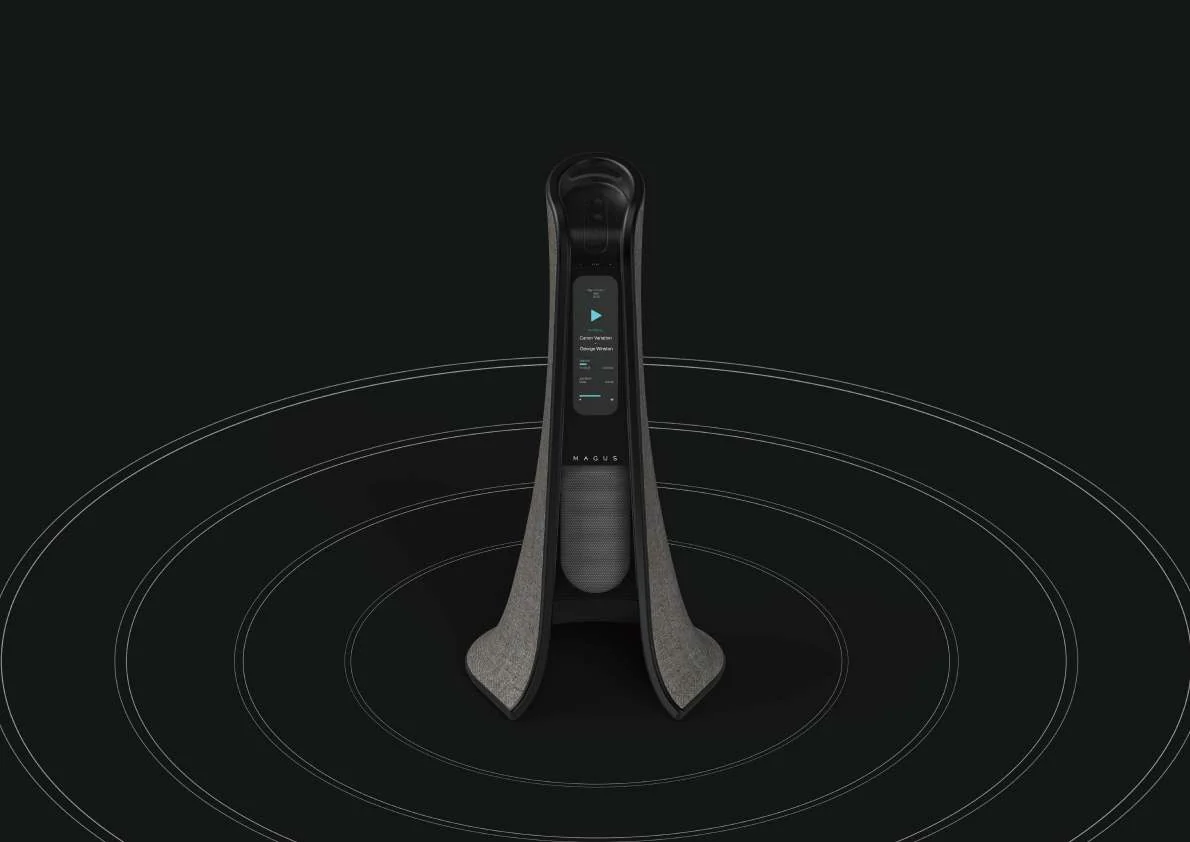
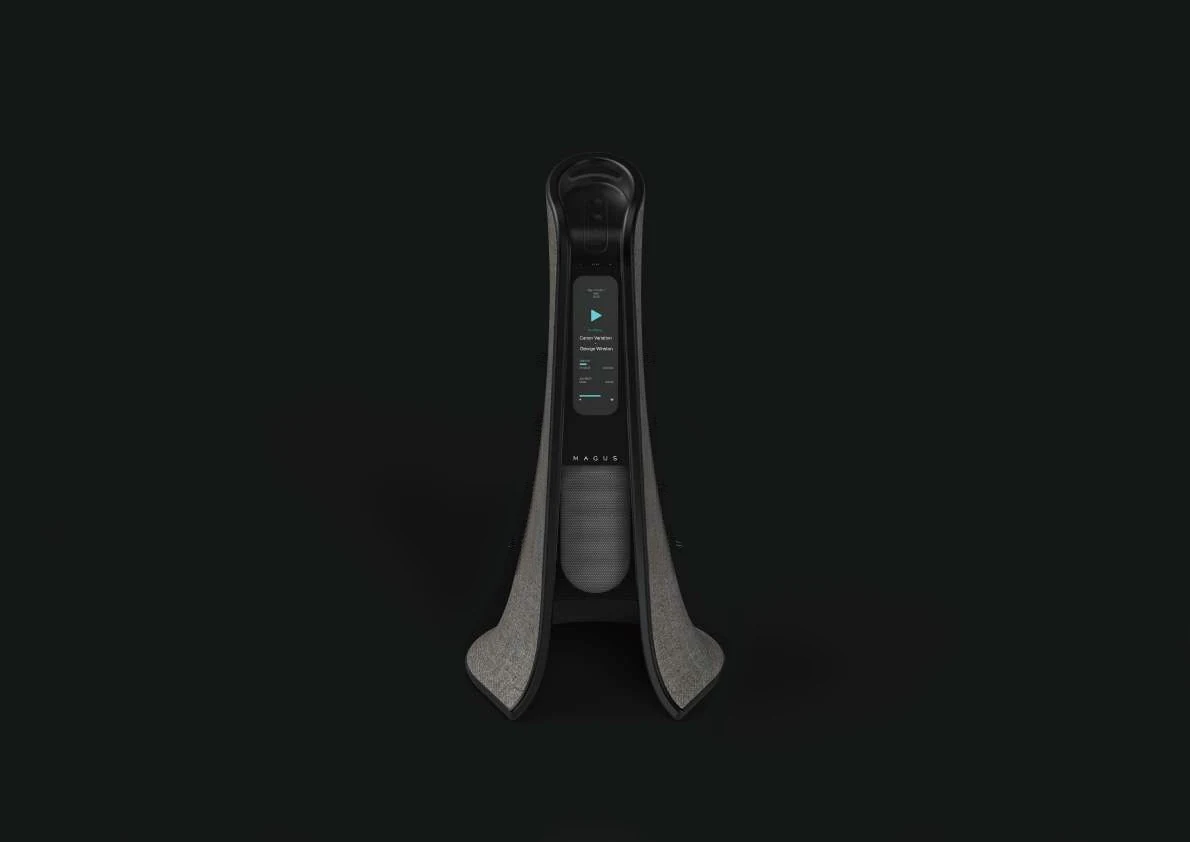
Remove white ring lines from MAGUS sound render
Claude-Session: https://claude.ai/code/session_01BFCG5mZW9hgWuvcjPHNUrC

diff --git a/index.html b/index.html
@@ -2118,7 +2118,7 @@ footer .c{padding-block:56px calc(40px + env(safe-area-inset-bottom,0px));displa
         <div class="pn-cap"><span class="pn-no">03 — Sound Movement</span><h3 class="pn-h">Fills the room,<br><em>every direction.</em></h3></div>
         <div class="pn-txt"><p>바닥에 가까운 우퍼와 넓게 벌어진 하단 구조로, 소리가 한쪽이 아니라 공간 전체로 둥글게 퍼지도록 설계했어요.</p></div>
       </div>
-      <figure class="mg-sound"><div class="mg-sstage"><button class="pn-ph " type="button" data-lb="99" data-cursor="1" aria-label="360° 사운드 확산 크게 보기"><img src="assets/magus/sound.webp" alt="MAGUS — 360° 사운드 확산" loading="lazy" decoding="async"></button><span class="mg-ring" aria-hidden="true"></span><span class="mg-ring" aria-hidden="true" style="animation-delay:1.3s"></span><span class="mg-ring" aria-hidden="true" style="animation-delay:2.6s"></span></div></figure>
+      <figure class="mg-sound"><div class="mg-sstage"><button class="pn-ph " type="button" data-lb="99" data-cursor="1" aria-label="360° 사운드 확산 크게 보기"><img src="assets/magus/sound.webp?v=2" alt="MAGUS — 360° 사운드 확산" loading="lazy" decoding="async"></button><span class="mg-ring" aria-hidden="true"></span><span class="mg-ring" aria-hidden="true" style="animation-delay:1.3s"></span><span class="mg-ring" aria-hidden="true" style="animation-delay:2.6s"></span></div></figure>
 
       <div class="pn-sec">
         <div class="pn-cap"><span class="pn-no">04 — Details</span><h3 class="pn-h">Made to be<br><em>touched.</em></h3></div>
@@ -2702,7 +2702,7 @@ document.querySelectorAll('#lf-tabs button').forEach(b=>b.addEventListener('clic
 })();
 
 /* ---------- 3D 작품 라이트박스 ---------- */
-const LB=[{"src": "assets/3d/convexity-1.webp", "alt": "석고 조형 Organic Convexity — 세로 구도", "cap": "Organic Convexity — 3D Plaster Sculpture", "g": "u"}, {"src": "assets/3d/convexity-2.webp", "alt": "석고 조형 Organic Convexity — 측면", "cap": "Organic Convexity — 3D Plaster Sculpture", "g": "u"}, {"src": "assets/3d/convexity-3.webp", "alt": "석고 조형 Organic Convexity — 위에서 본 모습", "cap": "Organic Convexity — 3D Plaster Sculpture", "g": "u"}, {"src": "assets/3d/fluidity-1.webp", "alt": "종이 조형 Organic Fluidity — 바닥에 놓인 형태", "cap": "Organic Fluidity — 3D Paper Sculpture", "g": "u"}, {"src": "assets/3d/fluidity-2.webp", "alt": "종이 조형 Organic Fluidity — 매달린 형태", "cap": "Organic Fluidity — 3D Paper Sculpture", "g": "u"}, {"src": "assets/3d/space-box.webp", "alt": "공간 분석 박스 — 상자 안에 매달린 색 면들", "cap": "Space Analysis Box — Spatial Study", "g": "u"}, {"src": "assets/3d/elements.webp", "alt": "3D 요소 연구 — 받침 위의 곡면과 선, 나무 형태", "cap": "3D Elements Studies — Space · Direction · Priority · Movement", "g": "u"}, {"src": "assets/3d/edged-1.webp", "alt": "석고 조형 Aesthetic Edged Surface — 정면", "cap": "Aesthetic Edged Surface — 3D Plaster Sculpture", "g": "u"}, {"src": "assets/3d/edged-2.webp", "alt": "석고 조형 Aesthetic Edged Surface — 근접", "cap": "Aesthetic Edged Surface — 3D Plaster Sculpture", "g": "u"}, {"src": "assets/3d/edged-3.webp", "alt": "석고 조형 Aesthetic Edged Surface — 측면", "cap": "Aesthetic Edged Surface — 3D Plaster Sculpture", "g": "u"}, {"src": "assets/intern/ottawa-wall.webp", "alt": "BoConcept Ottawa 사이드 테이블 — 벽 선반과 함께 연출된 공간", "cap": "Ottawa Side Table — BoConcept · Photography © BoConcept", "g": "i"}, {"src": "assets/intern/ottawa-lounge-1.webp", "alt": "Ottawa 사이드 테이블 — 소파 옆에 놓인 모습", "cap": "Ottawa Side Table — BoConcept · Photography © BoConcept", "g": "i"}, {"src": "assets/intern/ottawa-lounge-2.webp", "alt": "Ottawa 사이드 테이블 — 소파 좌석 아래로 밀어 넣은 모습", "cap": "Ottawa Side Table — BoConcept · Photography © BoConcept", "g": "i"}, {"src": "assets/intern/toot-interior.webp", "alt": "Kundalini TOOT 테이블 램프 — 인테리어 연출", "cap": "TOOT Table Lamp — Kundalini, 2017 · Photography © Kundalini", "g": "i"}, {"src": "assets/intern/toot-product.webp", "alt": "Kundalini TOOT 테이블 램프 — 제품 단독 컷", "cap": "TOOT Table Lamp — Kundalini, 2017 · Photography © Kundalini", "g": "i"}, {"src": "assets/linkfit/app/01.webp", "alt": "링크핏 앱 화면 — 01 스플래시", "cap": "LinkFit App — A 진입 · 01 스플래시", "g": "l"}, {"src": "assets/linkfit/app/02.webp", "alt": "링크핏 앱 화면 — 02 로그인", "cap": "LinkFit App — A 진입 · 02 로그인", "g": "l"}, {"src": "assets/linkfit/app/03.webp", "alt": "링크핏 앱 화면 — 03 로그인 진행 중", "cap": "LinkFit App — A 진입 · 03 로그인 진행 중", "g": "l"}, {"src": "assets/linkfit/app/04.webp", "alt": "링크핏 앱 화면 — 04 홈", "cap": "LinkFit App — B 탐색 · 04 홈", "g": "l"}, {"src": "assets/linkfit/app/05.webp", "alt": "링크핏 앱 화면 — 05 알림", "cap": "LinkFit App — B 탐색 · 05 알림", "g": "l"}, {"src": "assets/linkfit/app/06.webp", "alt": "링크핏 앱 화면 — 06 검색", "cap": "LinkFit App — B 탐색 · 06 검색", "g": "l"}, {"src": "assets/linkfit/app/07.webp", "alt": "링크핏 앱 화면 — 07 검색 결과", "cap": "LinkFit App — B 탐색 · 07 검색 결과", "g": "l"}, {"src": "assets/linkfit/app/08.webp", "alt": "링크핏 앱 화면 — 08 검색 필터", "cap": "LinkFit App — B 탐색 · 08 검색 필터", "g": "l"}, {"src": "assets/linkfit/app/09.webp", "alt": "링크핏 앱 화면 — 09 내 주변 지도", "cap": "LinkFit App — B 탐색 · 09 내 주변 지도", "g": "l"}, {"src": "assets/linkfit/app/10.webp", "alt": "링크핏 앱 화면 — 10 내 주변 필터 시트", "cap": "LinkFit App — B 탐색 · 10 내 주변 필터 시트", "g": "l"}, {"src": "assets/linkfit/app/11.webp", "alt": "링크핏 앱 화면 — 11 시설 상세", "cap": "LinkFit App — C 예약 · 결제 · 11 시설 상세", "g": "l"}, {"src": "assets/linkfit/app/12.webp", "alt": "링크핏 앱 화면 — 12 시설 상세 · 이용권 · 후기", "cap": "LinkFit App — C 예약 · 결제 · 12 시설 상세 · 이용권 · 후기", "g": "l"}, {"src": "assets/linkfit/app/13.webp", "alt": "링크핏 앱 화면 — 13 이용시간 선택", "cap": "LinkFit App — C 예약 · 결제 · 13 이용시간 선택", "g": "l"}, {"src": "assets/linkfit/app/14.webp", "alt": "링크핏 앱 화면 — 14 결제하기", "cap": "LinkFit App — C 예약 · 결제 · 14 결제하기", "g": "l"}, {"src": "assets/linkfit/app/15.webp", "alt": "링크핏 앱 화면 — 15 중복 시간 알림", "cap": "LinkFit App — C 예약 · 결제 · 15 중복 시간 알림", "g": "l"}, {"src": "assets/linkfit/app/16.webp", "alt": "링크핏 앱 화면 — 15B 결제 확정 대기", "cap": "LinkFit App — C 예약 · 결제 · 15B 결제 확정 대기", "g": "l"}, {"src": "assets/linkfit/app/17.webp", "alt": "링크핏 앱 화면 — 16 결제 완료", "cap": "LinkFit App — C 예약 · 결제 · 16 결제 완료", "g": "l"}, {"src": "assets/linkfit/app/18.webp", "alt": "링크핏 앱 화면 — 17 이용현황", "cap": "LinkFit App — D 이용 · 17 이용현황", "g": "l"}, {"src": "assets/linkfit/app/19.webp", "alt": "링크핏 앱 화면 — 18 이용권 상세", "cap": "LinkFit App — D 이용 · 18 이용권 상세", "g": "l"}, {"src": "assets/linkfit/app/20.webp", "alt": "링크핏 앱 화면 — 19 QR 입장", "cap": "LinkFit App — D 이용 · 19 QR 입장", "g": "l"}, {"src": "assets/linkfit/app/21.webp", "alt": "링크핏 앱 화면 — 20 이용 중", "cap": "LinkFit App — D 이용 · 20 이용 중", "g": "l"}, {"src": "assets/linkfit/app/22.webp", "alt": "링크핏 앱 화면 — 21 이용 시간 연장", "cap": "LinkFit App — D 이용 · 21 이용 시간 연장", "g": "l"}, {"src": "assets/linkfit/app/23.webp", "alt": "링크핏 앱 화면 — 22 이용 완료 · 후기", "cap": "LinkFit App — D 이용 · 22 이용 완료 · 후기", "g": "l"}, {"src": "assets/linkfit/app/24.webp", "alt": "링크핏 앱 화면 — 23 선물 보내기", "cap": "LinkFit App — E 선물 · 23 선물 보내기", "g": "l"}, {"src": "assets/linkfit/app/25.webp", "alt": "링크핏 앱 화면 — 24 선물 링크 완료", "cap": "LinkFit App — E 선물 · 24 선물 링크 완료", "g": "l"}, {"src": "assets/linkfit/app/26.webp", "alt": "링크핏 앱 화면 — 25 보낸 선물", "cap": "LinkFit App — E 선물 · 25 보낸 선물", "g": "l"}, {"src": "assets/linkfit/app/27.webp", "alt": "링크핏 앱 화면 — 26 선물 받기", "cap": "LinkFit App — E 선물 · 26 선물 받기", "g": "l"}, {"src": "assets/linkfit/app/28.webp", "alt": "링크핏 앱 화면 — 27 예약 취소 확인", "cap": "LinkFit App — F 취소 · 환불 · 27 예약 취소 확인", "g": "l"}, {"src": "assets/linkfit/app/29.webp", "alt": "링크핏 앱 화면 — 28 구매내역 상세", "cap": "LinkFit App — F 취소 · 환불 · 28 구매내역 상세", "g": "l"}, {"src": "assets/linkfit/app/30.webp", "alt": "링크핏 앱 화면 — 29 MY", "cap": "LinkFit App — G MY · 29 MY", "g": "l"}, {"src": "assets/linkfit/app/31.webp", "alt": "링크핏 앱 화면 — 30 헬스레벨 안내", "cap": "LinkFit App — G MY · 30 헬스레벨 안내", "g": "l"}, {"src": "assets/linkfit/app/32.webp", "alt": "링크핏 앱 화면 — 31 레벨 공유", "cap": "LinkFit App — G MY · 31 레벨 공유", "g": "l"}, {"src": "assets/linkfit/app/33.webp", "alt": "링크핏 앱 화면 — 32 이용권 구매내역", "cap": "LinkFit App — G MY · 32 이용권 구매내역", "g": "l"}, {"src": "assets/linkfit/app/34.webp", "alt": "링크핏 앱 화면 — 33 고객센터 · FAQ", "cap": "LinkFit App — G MY · 33 고객센터 · FAQ", "g": "l"}, {"src": "assets/linkfit/app/35.webp", "alt": "링크핏 앱 화면 — 34 내 문의내역", "cap": "LinkFit App — G MY · 34 내 문의내역", "g": "l"}, {"src": "assets/linkfit/app/36.webp", "alt": "링크핏 앱 화면 — 35 설정", "cap": "LinkFit App — G MY · 35 설정", "g": "l"}, {"src": "assets/linkfit/web/s-hero.webp", "alt": "링크핏 웹사이트 — Hero — 시간표를 드래그해 원하는 시간을 담는 첫 화면", "cap": "LinkFit Website — Hero — 시간표를 드래그해 원하는 시간을 담는 첫 화면", "g": "w"}, {"src": "assets/linkfit/web/s-why.webp", "alt": "링크핏 웹사이트 — Why LinkFit — 4가지 혜택 카드와 키워드 띠", "cap": "LinkFit Website — Why LinkFit — 4가지 혜택 카드와 키워드 띠", "g": "w"}, {"src": "assets/linkfit/web/s-how.webp", "alt": "링크핏 웹사이트 — How it works — 3단계 안내와 앱 화면", "cap": "LinkFit Website — How it works — 3단계 안내와 앱 화면", "g": "w"}, {"src": "assets/linkfit/web/s-together.webp", "alt": "링크핏 웹사이트 — Together — 함께 결제하고 함께 입장", "cap": "LinkFit Website — Together — 함께 결제하고 함께 입장", "g": "w"}, {"src": "assets/linkfit/web/s-faq.webp", "alt": "링크핏 웹사이트 — FAQ — 자주 묻는 질문 아코디언", "cap": "LinkFit Website — FAQ — 자주 묻는 질문 아코디언", "g": "w"}, {"src": "assets/linkfit/web/m-hero.webp", "alt": "링크핏 웹사이트 — Mobile — Hero", "cap": "LinkFit Website — Mobile — Hero", "g": "w"}, {"src": "assets/linkfit/web/m-why.webp", "alt": "링크핏 웹사이트 — Mobile — Why LinkFit", "cap": "LinkFit Website — Mobile — Why LinkFit", "g": "w"}, {"src": "assets/linkfit/web/m-how.webp", "alt": "링크핏 웹사이트 — Mobile — How it works", "cap": "LinkFit Website — Mobile — How it works", "g": "w"}, {"src": "assets/windmate/phone.webp", "alt": "Windmate 미니 선풍기 — With Phone — 스마트폰과 결합한 모습", "cap": "Windmate — With Phone — 스마트폰과 결합한 모습", "g": "m"}, {"src": "assets/windmate/back.webp", "alt": "Windmate 미니 선풍기 — Back — 손잡이가 스마트폰을 감싸는 뒷면", "cap": "Windmate — Back — 손잡이가 스마트폰을 감싸는 뒷면", "g": "m"}, {"src": "assets/windmate/fan.webp", "alt": "Windmate 미니 선풍기 — Fan Mode — 커버를 열면 선풍기", "cap": "Windmate — Fan Mode — 커버를 열면 선풍기", "g": "m"}, {"src": "assets/windmate/cover.webp", "alt": "Windmate 미니 선풍기 — Dryer Mode — 커버를 씌우면 드라이어", "cap": "Windmate — Dryer Mode — 커버를 씌우면 드라이어", "g": "m"}, {"src": "assets/windmate/detach.webp", "alt": "Windmate 미니 선풍기 — Two in One — 분리되는 드라이어 커버", "cap": "Windmate — Two in One — 분리되는 드라이어 커버", "g": "m"}, {"src": "assets/windmate/scene-full.webp", "alt": "Windmate 미니 선풍기 — Lifestyle — 드라이어로 머리를 말리는 장면", "cap": "Windmate — Lifestyle — 드라이어로 머리를 말리는 장면", "g": "m"}, {"src": "assets/windmate/d-hub.webp", "alt": "Windmate 미니 선풍기 — Detail — 허브의 메시지 Two become one, carry your wind", "cap": "Windmate — Detail — 허브의 메시지 Two become one, carry your wind", "g": "m"}, {"src": "assets/windmate/d-louver.webp", "alt": "Windmate 미니 선풍기 — Detail — 루버 커버와 WM 1800 각인", "cap": "Windmate — Detail — 루버 커버와 WM 1800 각인", "g": "m"}, {"src": "assets/windmate/d-grip.webp", "alt": "Windmate 미니 선풍기 — Detail — 네이비 레더 텍스처 그립", "cap": "Windmate — Detail — 네이비 레더 텍스처 그립", "g": "m"}, {"src": "assets/panastove/kitchen.webp", "alt": "PANASTOVE 충전식 프라이팬 — Hero — 키친 싱크 위의 PANASTOVE", "cap": "PANASTOVE — Hero — 키친 싱크 위의 PANASTOVE", "g": "p"}, {"src": "assets/panastove/prob-1.webp", "alt": "PANASTOVE 충전식 프라이팬 — Problem — 불 위에 올린 주전자", "cap": "PANASTOVE — Problem — 불 위에 올린 주전자", "g": "p"}, {"src": "assets/panastove/prob-2.webp", "alt": "PANASTOVE 충전식 프라이팬 — Problem — 캠핑 화로에서의 조리", "cap": "PANASTOVE — Problem — 캠핑 화로에서의 조리", "g": "p"}, {"src": "assets/panastove/prob-3.webp", "alt": "PANASTOVE 충전식 프라이팬 — Problem — 숲속 캠핑 바비큐", "cap": "PANASTOVE — Problem — 숲속 캠핑 바비큐", "g": "p"}, {"src": "assets/panastove/prob-4.webp", "alt": "PANASTOVE 충전식 프라이팬 — Problem — 숯불 그릴", "cap": "PANASTOVE — Problem — 숯불 그릴", "g": "p"}, {"src": "assets/panastove/prob-5.webp", "alt": "PANASTOVE 충전식 프라이팬 — Problem — 바비큐 그릴 뚜껑", "cap": "PANASTOVE — Problem — 바비큐 그릴 뚜껑", "g": "p"}, {"src": "assets/panastove/prob-6.webp", "alt": "PANASTOVE 충전식 프라이팬 — Problem — 치솟는 그릴 불길", "cap": "PANASTOVE — Problem — 치솟는 그릴 불길", "g": "p"}, {"src": "assets/panastove/concept.webp", "alt": "PANASTOVE 충전식 프라이팬 — Concept — 가스·전기·그릴 없이, 새로운 조리 경험", "cap": "PANASTOVE — Concept — 가스·전기·그릴 없이, 새로운 조리 경험", "g": "p"}, {"src": "assets/panastove/lineup.webp", "alt": "PANASTOVE 충전식 프라이팬 — Lineup — 지름 13인치, 높이 3.5인치, 손잡이 6인치", "cap": "PANASTOVE — Lineup — 지름 13인치 · 높이 3.5인치 · 손잡이 6인치", "g": "p"}, {"src": "assets/panastove/button.webp", "alt": "PANASTOVE 충전식 프라이팬 — Detail — 슬라이딩 파워 버튼 (0–3단)", "cap": "PANASTOVE — Detail — 슬라이딩 파워 버튼 (0–3단)", "g": "p"}, {"src": "assets/panastove/charge.webp", "alt": "PANASTOVE 충전식 프라이팬 — Detail — 손잡이 끝 전원·배터리 충전 단자와 러버 그립", "cap": "PANASTOVE — Detail — 손잡이 끝 전원·배터리 충전 단자와 러버 그립", "g": "p"}, {"src": "assets/panastove/anatomy.webp", "alt": "PANASTOVE 충전식 프라이팬 — Anatomy — 아노다이징 알루미늄 팬, 히팅 패널, 히팅 파워 보드", "cap": "PANASTOVE — Anatomy — 아노다이징 알루미늄 팬, 히팅 패널, 히팅 파워 보드", "g": "p"}, {"src": "assets/panastove/package.webp", "alt": "PANASTOVE 충전식 프라이팬 — Packaging — 팬과 충전 코드를 담는 패키지", "cap": "PANASTOVE — Packaging — 팬과 충전 코드를 담는 패키지", "g": "p"}, {"src": "assets/panastove/logo.webp", "alt": "PANASTOVE 충전식 프라이팬 — Packaging — 음각 로고 디테일", "cap": "PANASTOVE — Packaging — 음각 로고 디테일", "g": "p"}, {"src": "assets/panastove/cafe.webp", "alt": "PANASTOVE 충전식 프라이팬 — In Use — 식탁 위에서 바로 데우는 요리", "cap": "PANASTOVE — In Use — 식탁 위에서 바로 데우는 요리", "g": "p"}, {"src": "assets/kft/card-light.webp", "alt": "K-FutureTech 브랜딩 — Business Card — 화이트 명함 (90 × 55 mm)", "cap": "K-FutureTech — Business Card — 화이트 명함 (90 × 55 mm)", "g": "k"}, {"src": "assets/kft/card-dark.webp", "alt": "K-FutureTech 브랜딩 — Business Card — 다크 명함", "cap": "K-FutureTech — Business Card — 다크 명함", "g": "k"}, {"src": "assets/kft/envelope.webp", "alt": "K-FutureTech 브랜딩 — Stationery — 레터지 210 × 297 mm · 봉투 220 × 105 mm", "cap": "K-FutureTech — Stationery — 레터지 210 × 297 mm · 봉투 220 × 105 mm", "g": "k"}, {"src": "assets/kft/robot/scene.webp?v=4", "alt": "K-FutureTech 로봇 — Product — 실내 공간에 놓인 서빙 로봇 (로고 적용 시안)", "cap": "K-FutureTech — Product — 실내 공간에 놓인 서빙 로봇 (로고 적용 시안)", "g": "k"}, {"src": "assets/kft/robot/front.webp?v=4", "alt": "K-FutureTech 로봇 — Product — 3/4 뷰, 측면 로고 적용", "cap": "K-FutureTech — Product — 3/4 뷰, 측면 로고 적용", "g": "k"}, {"src": "assets/kft/robot/side-l.webp?v=4", "alt": "K-FutureTech 로봇 — Product — 좌측면 로고 적용", "cap": "K-FutureTech — Product — 좌측면 로고 적용", "g": "k"}, {"src": "assets/kft/robot/side-r.webp?v=4", "alt": "K-FutureTech 로봇 — Product — 우측면 로고 적용", "cap": "K-FutureTech — Product — 우측면 로고 적용", "g": "k"}, {"src": "assets/kft/robot/lineup.webp?v=4", "alt": "K-FutureTech 로봇 — Product — 모듈형 로봇 라인업 렌더", "cap": "K-FutureTech — Product — 모듈형 로봇 라인업 렌더", "g": "k"}, {"src": "assets/magus/hero.webp", "alt": "MAGUS 플로어스탠딩 블루투스 스피커 — Hero — 거실에 놓인 MAGUS", "cap": "MAGUS — Hero — 거실에 놓인 MAGUS", "g": "g"}, {"src": "assets/magus/home-1.webp", "alt": "MAGUS 플로어스탠딩 블루투스 스피커 — In Home — 라운지 공간 설치 예시", "cap": "MAGUS — In Home — 라운지 공간 설치 예시", "g": "g"}, {"src": "assets/magus/home-2.webp", "alt": "MAGUS 플로어스탠딩 블루투스 스피커 — In Home — 페어 설치 예시", "cap": "MAGUS — In Home — 페어 설치 예시", "g": "g"}, {"src": "assets/magus/insp-1.webp", "alt": "MAGUS 플로어스탠딩 블루투스 스피커 — Inspiration — 황제펭귄", "cap": "MAGUS — Inspiration — 황제펭귄", "g": "g"}, {"src": "assets/magus/insp-2.webp", "alt": "MAGUS 플로어스탠딩 블루투스 스피커 — Inspiration — 무리 지어 선 펭귄", "cap": "MAGUS — Inspiration — 무리 지어 선 펭귄", "g": "g"}, {"src": "assets/magus/insp-3.webp", "alt": "MAGUS 플로어스탠딩 블루투스 스피커 — Inspiration — 펭귄 군집", "cap": "MAGUS — Inspiration — 펭귄 군집", "g": "g"}, {"src": "assets/magus/insp-4.webp", "alt": "MAGUS 플로어스탠딩 블루투스 스피커 — Inspiration — 나란히 선 세 마리", "cap": "MAGUS — Inspiration — 나란히 선 세 마리", "g": "g"}, {"src": "assets/magus/front.webp", "alt": "MAGUS 플로어스탠딩 블루투스 스피커 — Overview — 전체 형태와 우퍼", "cap": "MAGUS — Overview — 전체 형태와 우퍼", "g": "g"}, {"src": "assets/magus/sound.webp", "alt": "MAGUS 플로어스탠딩 블루투스 스피커 — Sound Movement — 360° 사운드 확산", "cap": "MAGUS — Sound Movement — 360° 사운드 확산", "g": "g"}, {"src": "assets/magus/screen.webp", "alt": "MAGUS 플로어스탠딩 블루투스 스피커 — Detail — LED 스크린과 로고", "cap": "MAGUS — Detail — LED 스크린과 로고", "g": "g"}, {"src": "assets/magus/grill.webp", "alt": "MAGUS 플로어스탠딩 블루투스 스피커 — Detail — 육각 그릴", "cap": "MAGUS — Detail — 육각 그릴", "g": "g"}, {"src": "assets/magus/felt.webp", "alt": "MAGUS 플로어스탠딩 블루투스 스피커 — Detail — 펠트 커버", "cap": "MAGUS — Detail — 펠트 커버", "g": "g"}, {"src": "assets/magus/grip.webp", "alt": "MAGUS 플로어스탠딩 블루투스 스피커 — Detail — 핸드 그립", "cap": "MAGUS — Detail — 핸드 그립", "g": "g"}, {"src": "assets/magus/remote.webp", "alt": "MAGUS 플로어스탠딩 블루투스 스피커 — Detail — 분리형 리모컨", "cap": "MAGUS — Detail — 분리형 리모컨", "g": "g"}];
+const LB=[{"src": "assets/3d/convexity-1.webp", "alt": "석고 조형 Organic Convexity — 세로 구도", "cap": "Organic Convexity — 3D Plaster Sculpture", "g": "u"}, {"src": "assets/3d/convexity-2.webp", "alt": "석고 조형 Organic Convexity — 측면", "cap": "Organic Convexity — 3D Plaster Sculpture", "g": "u"}, {"src": "assets/3d/convexity-3.webp", "alt": "석고 조형 Organic Convexity — 위에서 본 모습", "cap": "Organic Convexity — 3D Plaster Sculpture", "g": "u"}, {"src": "assets/3d/fluidity-1.webp", "alt": "종이 조형 Organic Fluidity — 바닥에 놓인 형태", "cap": "Organic Fluidity — 3D Paper Sculpture", "g": "u"}, {"src": "assets/3d/fluidity-2.webp", "alt": "종이 조형 Organic Fluidity — 매달린 형태", "cap": "Organic Fluidity — 3D Paper Sculpture", "g": "u"}, {"src": "assets/3d/space-box.webp", "alt": "공간 분석 박스 — 상자 안에 매달린 색 면들", "cap": "Space Analysis Box — Spatial Study", "g": "u"}, {"src": "assets/3d/elements.webp", "alt": "3D 요소 연구 — 받침 위의 곡면과 선, 나무 형태", "cap": "3D Elements Studies — Space · Direction · Priority · Movement", "g": "u"}, {"src": "assets/3d/edged-1.webp", "alt": "석고 조형 Aesthetic Edged Surface — 정면", "cap": "Aesthetic Edged Surface — 3D Plaster Sculpture", "g": "u"}, {"src": "assets/3d/edged-2.webp", "alt": "석고 조형 Aesthetic Edged Surface — 근접", "cap": "Aesthetic Edged Surface — 3D Plaster Sculpture", "g": "u"}, {"src": "assets/3d/edged-3.webp", "alt": "석고 조형 Aesthetic Edged Surface — 측면", "cap": "Aesthetic Edged Surface — 3D Plaster Sculpture", "g": "u"}, {"src": "assets/intern/ottawa-wall.webp", "alt": "BoConcept Ottawa 사이드 테이블 — 벽 선반과 함께 연출된 공간", "cap": "Ottawa Side Table — BoConcept · Photography © BoConcept", "g": "i"}, {"src": "assets/intern/ottawa-lounge-1.webp", "alt": "Ottawa 사이드 테이블 — 소파 옆에 놓인 모습", "cap": "Ottawa Side Table — BoConcept · Photography © BoConcept", "g": "i"}, {"src": "assets/intern/ottawa-lounge-2.webp", "alt": "Ottawa 사이드 테이블 — 소파 좌석 아래로 밀어 넣은 모습", "cap": "Ottawa Side Table — BoConcept · Photography © BoConcept", "g": "i"}, {"src": "assets/intern/toot-interior.webp", "alt": "Kundalini TOOT 테이블 램프 — 인테리어 연출", "cap": "TOOT Table Lamp — Kundalini, 2017 · Photography © Kundalini", "g": "i"}, {"src": "assets/intern/toot-product.webp", "alt": "Kundalini TOOT 테이블 램프 — 제품 단독 컷", "cap": "TOOT Table Lamp — Kundalini, 2017 · Photography © Kundalini", "g": "i"}, {"src": "assets/linkfit/app/01.webp", "alt": "링크핏 앱 화면 — 01 스플래시", "cap": "LinkFit App — A 진입 · 01 스플래시", "g": "l"}, {"src": "assets/linkfit/app/02.webp", "alt": "링크핏 앱 화면 — 02 로그인", "cap": "LinkFit App — A 진입 · 02 로그인", "g": "l"}, {"src": "assets/linkfit/app/03.webp", "alt": "링크핏 앱 화면 — 03 로그인 진행 중", "cap": "LinkFit App — A 진입 · 03 로그인 진행 중", "g": "l"}, {"src": "assets/linkfit/app/04.webp", "alt": "링크핏 앱 화면 — 04 홈", "cap": "LinkFit App — B 탐색 · 04 홈", "g": "l"}, {"src": "assets/linkfit/app/05.webp", "alt": "링크핏 앱 화면 — 05 알림", "cap": "LinkFit App — B 탐색 · 05 알림", "g": "l"}, {"src": "assets/linkfit/app/06.webp", "alt": "링크핏 앱 화면 — 06 검색", "cap": "LinkFit App — B 탐색 · 06 검색", "g": "l"}, {"src": "assets/linkfit/app/07.webp", "alt": "링크핏 앱 화면 — 07 검색 결과", "cap": "LinkFit App — B 탐색 · 07 검색 결과", "g": "l"}, {"src": "assets/linkfit/app/08.webp", "alt": "링크핏 앱 화면 — 08 검색 필터", "cap": "LinkFit App — B 탐색 · 08 검색 필터", "g": "l"}, {"src": "assets/linkfit/app/09.webp", "alt": "링크핏 앱 화면 — 09 내 주변 지도", "cap": "LinkFit App — B 탐색 · 09 내 주변 지도", "g": "l"}, {"src": "assets/linkfit/app/10.webp", "alt": "링크핏 앱 화면 — 10 내 주변 필터 시트", "cap": "LinkFit App — B 탐색 · 10 내 주변 필터 시트", "g": "l"}, {"src": "assets/linkfit/app/11.webp", "alt": "링크핏 앱 화면 — 11 시설 상세", "cap": "LinkFit App — C 예약 · 결제 · 11 시설 상세", "g": "l"}, {"src": "assets/linkfit/app/12.webp", "alt": "링크핏 앱 화면 — 12 시설 상세 · 이용권 · 후기", "cap": "LinkFit App — C 예약 · 결제 · 12 시설 상세 · 이용권 · 후기", "g": "l"}, {"src": "assets/linkfit/app/13.webp", "alt": "링크핏 앱 화면 — 13 이용시간 선택", "cap": "LinkFit App — C 예약 · 결제 · 13 이용시간 선택", "g": "l"}, {"src": "assets/linkfit/app/14.webp", "alt": "링크핏 앱 화면 — 14 결제하기", "cap": "LinkFit App — C 예약 · 결제 · 14 결제하기", "g": "l"}, {"src": "assets/linkfit/app/15.webp", "alt": "링크핏 앱 화면 — 15 중복 시간 알림", "cap": "LinkFit App — C 예약 · 결제 · 15 중복 시간 알림", "g": "l"}, {"src": "assets/linkfit/app/16.webp", "alt": "링크핏 앱 화면 — 15B 결제 확정 대기", "cap": "LinkFit App — C 예약 · 결제 · 15B 결제 확정 대기", "g": "l"}, {"src": "assets/linkfit/app/17.webp", "alt": "링크핏 앱 화면 — 16 결제 완료", "cap": "LinkFit App — C 예약 · 결제 · 16 결제 완료", "g": "l"}, {"src": "assets/linkfit/app/18.webp", "alt": "링크핏 앱 화면 — 17 이용현황", "cap": "LinkFit App — D 이용 · 17 이용현황", "g": "l"}, {"src": "assets/linkfit/app/19.webp", "alt": "링크핏 앱 화면 — 18 이용권 상세", "cap": "LinkFit App — D 이용 · 18 이용권 상세", "g": "l"}, {"src": "assets/linkfit/app/20.webp", "alt": "링크핏 앱 화면 — 19 QR 입장", "cap": "LinkFit App — D 이용 · 19 QR 입장", "g": "l"}, {"src": "assets/linkfit/app/21.webp", "alt": "링크핏 앱 화면 — 20 이용 중", "cap": "LinkFit App — D 이용 · 20 이용 중", "g": "l"}, {"src": "assets/linkfit/app/22.webp", "alt": "링크핏 앱 화면 — 21 이용 시간 연장", "cap": "LinkFit App — D 이용 · 21 이용 시간 연장", "g": "l"}, {"src": "assets/linkfit/app/23.webp", "alt": "링크핏 앱 화면 — 22 이용 완료 · 후기", "cap": "LinkFit App — D 이용 · 22 이용 완료 · 후기", "g": "l"}, {"src": "assets/linkfit/app/24.webp", "alt": "링크핏 앱 화면 — 23 선물 보내기", "cap": "LinkFit App — E 선물 · 23 선물 보내기", "g": "l"}, {"src": "assets/linkfit/app/25.webp", "alt": "링크핏 앱 화면 — 24 선물 링크 완료", "cap": "LinkFit App — E 선물 · 24 선물 링크 완료", "g": "l"}, {"src": "assets/linkfit/app/26.webp", "alt": "링크핏 앱 화면 — 25 보낸 선물", "cap": "LinkFit App — E 선물 · 25 보낸 선물", "g": "l"}, {"src": "assets/linkfit/app/27.webp", "alt": "링크핏 앱 화면 — 26 선물 받기", "cap": "LinkFit App — E 선물 · 26 선물 받기", "g": "l"}, {"src": "assets/linkfit/app/28.webp", "alt": "링크핏 앱 화면 — 27 예약 취소 확인", "cap": "LinkFit App — F 취소 · 환불 · 27 예약 취소 확인", "g": "l"}, {"src": "assets/linkfit/app/29.webp", "alt": "링크핏 앱 화면 — 28 구매내역 상세", "cap": "LinkFit App — F 취소 · 환불 · 28 구매내역 상세", "g": "l"}, {"src": "assets/linkfit/app/30.webp", "alt": "링크핏 앱 화면 — 29 MY", "cap": "LinkFit App — G MY · 29 MY", "g": "l"}, {"src": "assets/linkfit/app/31.webp", "alt": "링크핏 앱 화면 — 30 헬스레벨 안내", "cap": "LinkFit App — G MY · 30 헬스레벨 안내", "g": "l"}, {"src": "assets/linkfit/app/32.webp", "alt": "링크핏 앱 화면 — 31 레벨 공유", "cap": "LinkFit App — G MY · 31 레벨 공유", "g": "l"}, {"src": "assets/linkfit/app/33.webp", "alt": "링크핏 앱 화면 — 32 이용권 구매내역", "cap": "LinkFit App — G MY · 32 이용권 구매내역", "g": "l"}, {"src": "assets/linkfit/app/34.webp", "alt": "링크핏 앱 화면 — 33 고객센터 · FAQ", "cap": "LinkFit App — G MY · 33 고객센터 · FAQ", "g": "l"}, {"src": "assets/linkfit/app/35.webp", "alt": "링크핏 앱 화면 — 34 내 문의내역", "cap": "LinkFit App — G MY · 34 내 문의내역", "g": "l"}, {"src": "assets/linkfit/app/36.webp", "alt": "링크핏 앱 화면 — 35 설정", "cap": "LinkFit App — G MY · 35 설정", "g": "l"}, {"src": "assets/linkfit/web/s-hero.webp", "alt": "링크핏 웹사이트 — Hero — 시간표를 드래그해 원하는 시간을 담는 첫 화면", "cap": "LinkFit Website — Hero — 시간표를 드래그해 원하는 시간을 담는 첫 화면", "g": "w"}, {"src": "assets/linkfit/web/s-why.webp", "alt": "링크핏 웹사이트 — Why LinkFit — 4가지 혜택 카드와 키워드 띠", "cap": "LinkFit Website — Why LinkFit — 4가지 혜택 카드와 키워드 띠", "g": "w"}, {"src": "assets/linkfit/web/s-how.webp", "alt": "링크핏 웹사이트 — How it works — 3단계 안내와 앱 화면", "cap": "LinkFit Website — How it works — 3단계 안내와 앱 화면", "g": "w"}, {"src": "assets/linkfit/web/s-together.webp", "alt": "링크핏 웹사이트 — Together — 함께 결제하고 함께 입장", "cap": "LinkFit Website — Together — 함께 결제하고 함께 입장", "g": "w"}, {"src": "assets/linkfit/web/s-faq.webp", "alt": "링크핏 웹사이트 — FAQ — 자주 묻는 질문 아코디언", "cap": "LinkFit Website — FAQ — 자주 묻는 질문 아코디언", "g": "w"}, {"src": "assets/linkfit/web/m-hero.webp", "alt": "링크핏 웹사이트 — Mobile — Hero", "cap": "LinkFit Website — Mobile — Hero", "g": "w"}, {"src": "assets/linkfit/web/m-why.webp", "alt": "링크핏 웹사이트 — Mobile — Why LinkFit", "cap": "LinkFit Website — Mobile — Why LinkFit", "g": "w"}, {"src": "assets/linkfit/web/m-how.webp", "alt": "링크핏 웹사이트 — Mobile — How it works", "cap": "LinkFit Website — Mobile — How it works", "g": "w"}, {"src": "assets/windmate/phone.webp", "alt": "Windmate 미니 선풍기 — With Phone — 스마트폰과 결합한 모습", "cap": "Windmate — With Phone — 스마트폰과 결합한 모습", "g": "m"}, {"src": "assets/windmate/back.webp", "alt": "Windmate 미니 선풍기 — Back — 손잡이가 스마트폰을 감싸는 뒷면", "cap": "Windmate — Back — 손잡이가 스마트폰을 감싸는 뒷면", "g": "m"}, {"src": "assets/windmate/fan.webp", "alt": "Windmate 미니 선풍기 — Fan Mode — 커버를 열면 선풍기", "cap": "Windmate — Fan Mode — 커버를 열면 선풍기", "g": "m"}, {"src": "assets/windmate/cover.webp", "alt": "Windmate 미니 선풍기 — Dryer Mode — 커버를 씌우면 드라이어", "cap": "Windmate — Dryer Mode — 커버를 씌우면 드라이어", "g": "m"}, {"src": "assets/windmate/detach.webp", "alt": "Windmate 미니 선풍기 — Two in One — 분리되는 드라이어 커버", "cap": "Windmate — Two in One — 분리되는 드라이어 커버", "g": "m"}, {"src": "assets/windmate/scene-full.webp", "alt": "Windmate 미니 선풍기 — Lifestyle — 드라이어로 머리를 말리는 장면", "cap": "Windmate — Lifestyle — 드라이어로 머리를 말리는 장면", "g": "m"}, {"src": "assets/windmate/d-hub.webp", "alt": "Windmate 미니 선풍기 — Detail — 허브의 메시지 Two become one, carry your wind", "cap": "Windmate — Detail — 허브의 메시지 Two become one, carry your wind", "g": "m"}, {"src": "assets/windmate/d-louver.webp", "alt": "Windmate 미니 선풍기 — Detail — 루버 커버와 WM 1800 각인", "cap": "Windmate — Detail — 루버 커버와 WM 1800 각인", "g": "m"}, {"src": "assets/windmate/d-grip.webp", "alt": "Windmate 미니 선풍기 — Detail — 네이비 레더 텍스처 그립", "cap": "Windmate — Detail — 네이비 레더 텍스처 그립", "g": "m"}, {"src": "assets/panastove/kitchen.webp", "alt": "PANASTOVE 충전식 프라이팬 — Hero — 키친 싱크 위의 PANASTOVE", "cap": "PANASTOVE — Hero — 키친 싱크 위의 PANASTOVE", "g": "p"}, {"src": "assets/panastove/prob-1.webp", "alt": "PANASTOVE 충전식 프라이팬 — Problem — 불 위에 올린 주전자", "cap": "PANASTOVE — Problem — 불 위에 올린 주전자", "g": "p"}, {"src": "assets/panastove/prob-2.webp", "alt": "PANASTOVE 충전식 프라이팬 — Problem — 캠핑 화로에서의 조리", "cap": "PANASTOVE — Problem — 캠핑 화로에서의 조리", "g": "p"}, {"src": "assets/panastove/prob-3.webp", "alt": "PANASTOVE 충전식 프라이팬 — Problem — 숲속 캠핑 바비큐", "cap": "PANASTOVE — Problem — 숲속 캠핑 바비큐", "g": "p"}, {"src": "assets/panastove/prob-4.webp", "alt": "PANASTOVE 충전식 프라이팬 — Problem — 숯불 그릴", "cap": "PANASTOVE — Problem — 숯불 그릴", "g": "p"}, {"src": "assets/panastove/prob-5.webp", "alt": "PANASTOVE 충전식 프라이팬 — Problem — 바비큐 그릴 뚜껑", "cap": "PANASTOVE — Problem — 바비큐 그릴 뚜껑", "g": "p"}, {"src": "assets/panastove/prob-6.webp", "alt": "PANASTOVE 충전식 프라이팬 — Problem — 치솟는 그릴 불길", "cap": "PANASTOVE — Problem — 치솟는 그릴 불길", "g": "p"}, {"src": "assets/panastove/concept.webp", "alt": "PANASTOVE 충전식 프라이팬 — Concept — 가스·전기·그릴 없이, 새로운 조리 경험", "cap": "PANASTOVE — Concept — 가스·전기·그릴 없이, 새로운 조리 경험", "g": "p"}, {"src": "assets/panastove/lineup.webp", "alt": "PANASTOVE 충전식 프라이팬 — Lineup — 지름 13인치, 높이 3.5인치, 손잡이 6인치", "cap": "PANASTOVE — Lineup — 지름 13인치 · 높이 3.5인치 · 손잡이 6인치", "g": "p"}, {"src": "assets/panastove/button.webp", "alt": "PANASTOVE 충전식 프라이팬 — Detail — 슬라이딩 파워 버튼 (0–3단)", "cap": "PANASTOVE — Detail — 슬라이딩 파워 버튼 (0–3단)", "g": "p"}, {"src": "assets/panastove/charge.webp", "alt": "PANASTOVE 충전식 프라이팬 — Detail — 손잡이 끝 전원·배터리 충전 단자와 러버 그립", "cap": "PANASTOVE — Detail — 손잡이 끝 전원·배터리 충전 단자와 러버 그립", "g": "p"}, {"src": "assets/panastove/anatomy.webp", "alt": "PANASTOVE 충전식 프라이팬 — Anatomy — 아노다이징 알루미늄 팬, 히팅 패널, 히팅 파워 보드", "cap": "PANASTOVE — Anatomy — 아노다이징 알루미늄 팬, 히팅 패널, 히팅 파워 보드", "g": "p"}, {"src": "assets/panastove/package.webp", "alt": "PANASTOVE 충전식 프라이팬 — Packaging — 팬과 충전 코드를 담는 패키지", "cap": "PANASTOVE — Packaging — 팬과 충전 코드를 담는 패키지", "g": "p"}, {"src": "assets/panastove/logo.webp", "alt": "PANASTOVE 충전식 프라이팬 — Packaging — 음각 로고 디테일", "cap": "PANASTOVE — Packaging — 음각 로고 디테일", "g": "p"}, {"src": "assets/panastove/cafe.webp", "alt": "PANASTOVE 충전식 프라이팬 — In Use — 식탁 위에서 바로 데우는 요리", "cap": "PANASTOVE — In Use — 식탁 위에서 바로 데우는 요리", "g": "p"}, {"src": "assets/kft/card-light.webp", "alt": "K-FutureTech 브랜딩 — Business Card — 화이트 명함 (90 × 55 mm)", "cap": "K-FutureTech — Business Card — 화이트 명함 (90 × 55 mm)", "g": "k"}, {"src": "assets/kft/card-dark.webp", "alt": "K-FutureTech 브랜딩 — Business Card — 다크 명함", "cap": "K-FutureTech — Business Card — 다크 명함", "g": "k"}, {"src": "assets/kft/envelope.webp", "alt": "K-FutureTech 브랜딩 — Stationery — 레터지 210 × 297 mm · 봉투 220 × 105 mm", "cap": "K-FutureTech — Stationery — 레터지 210 × 297 mm · 봉투 220 × 105 mm", "g": "k"}, {"src": "assets/kft/robot/scene.webp?v=4", "alt": "K-FutureTech 로봇 — Product — 실내 공간에 놓인 서빙 로봇 (로고 적용 시안)", "cap": "K-FutureTech — Product — 실내 공간에 놓인 서빙 로봇 (로고 적용 시안)", "g": "k"}, {"src": "assets/kft/robot/front.webp?v=4", "alt": "K-FutureTech 로봇 — Product — 3/4 뷰, 측면 로고 적용", "cap": "K-FutureTech — Product — 3/4 뷰, 측면 로고 적용", "g": "k"}, {"src": "assets/kft/robot/side-l.webp?v=4", "alt": "K-FutureTech 로봇 — Product — 좌측면 로고 적용", "cap": "K-FutureTech — Product — 좌측면 로고 적용", "g": "k"}, {"src": "assets/kft/robot/side-r.webp?v=4", "alt": "K-FutureTech 로봇 — Product — 우측면 로고 적용", "cap": "K-FutureTech — Product — 우측면 로고 적용", "g": "k"}, {"src": "assets/kft/robot/lineup.webp?v=4", "alt": "K-FutureTech 로봇 — Product — 모듈형 로봇 라인업 렌더", "cap": "K-FutureTech — Product — 모듈형 로봇 라인업 렌더", "g": "k"}, {"src": "assets/magus/hero.webp", "alt": "MAGUS 플로어스탠딩 블루투스 스피커 — Hero — 거실에 놓인 MAGUS", "cap": "MAGUS — Hero — 거실에 놓인 MAGUS", "g": "g"}, {"src": "assets/magus/home-1.webp", "alt": "MAGUS 플로어스탠딩 블루투스 스피커 — In Home — 라운지 공간 설치 예시", "cap": "MAGUS — In Home — 라운지 공간 설치 예시", "g": "g"}, {"src": "assets/magus/home-2.webp", "alt": "MAGUS 플로어스탠딩 블루투스 스피커 — In Home — 페어 설치 예시", "cap": "MAGUS — In Home — 페어 설치 예시", "g": "g"}, {"src": "assets/magus/insp-1.webp", "alt": "MAGUS 플로어스탠딩 블루투스 스피커 — Inspiration — 황제펭귄", "cap": "MAGUS — Inspiration — 황제펭귄", "g": "g"}, {"src": "assets/magus/insp-2.webp", "alt": "MAGUS 플로어스탠딩 블루투스 스피커 — Inspiration — 무리 지어 선 펭귄", "cap": "MAGUS — Inspiration — 무리 지어 선 펭귄", "g": "g"}, {"src": "assets/magus/insp-3.webp", "alt": "MAGUS 플로어스탠딩 블루투스 스피커 — Inspiration — 펭귄 군집", "cap": "MAGUS — Inspiration — 펭귄 군집", "g": "g"}, {"src": "assets/magus/insp-4.webp", "alt": "MAGUS 플로어스탠딩 블루투스 스피커 — Inspiration — 나란히 선 세 마리", "cap": "MAGUS — Inspiration — 나란히 선 세 마리", "g": "g"}, {"src": "assets/magus/front.webp", "alt": "MAGUS 플로어스탠딩 블루투스 스피커 — Overview — 전체 형태와 우퍼", "cap": "MAGUS — Overview — 전체 형태와 우퍼", "g": "g"}, {"src": "assets/magus/sound.webp?v=2", "alt": "MAGUS 플로어스탠딩 블루투스 스피커 — Sound Movement — 360° 사운드 확산", "cap": "MAGUS — Sound Movement — 360° 사운드 확산", "g": "g"}, {"src": "assets/magus/screen.webp", "alt": "MAGUS 플로어스탠딩 블루투스 스피커 — Detail — LED 스크린과 로고", "cap": "MAGUS — Detail — LED 스크린과 로고", "g": "g"}, {"src": "assets/magus/grill.webp", "alt": "MAGUS 플로어스탠딩 블루투스 스피커 — Detail — 육각 그릴", "cap": "MAGUS — Detail — 육각 그릴", "g": "g"}, {"src": "assets/magus/felt.webp", "alt": "MAGUS 플로어스탠딩 블루투스 스피커 — Detail — 펠트 커버", "cap": "MAGUS — Detail — 펠트 커버", "g": "g"}, {"src": "assets/magus/grip.webp", "alt": "MAGUS 플로어스탠딩 블루투스 스피커 — Detail — 핸드 그립", "cap": "MAGUS — Detail — 핸드 그립", "g": "g"}, {"src": "assets/magus/remote.webp", "alt": "MAGUS 플로어스탠딩 블루투스 스피커 — Detail — 분리형 리모컨", "cap": "MAGUS — Detail — 분리형 리모컨", "g": "g"}];
 const lb=document.getElementById('lb'), lbImg=document.getElementById('lb-img');
 let lbI=0, lbRet=null;
 let lbSet=[];
